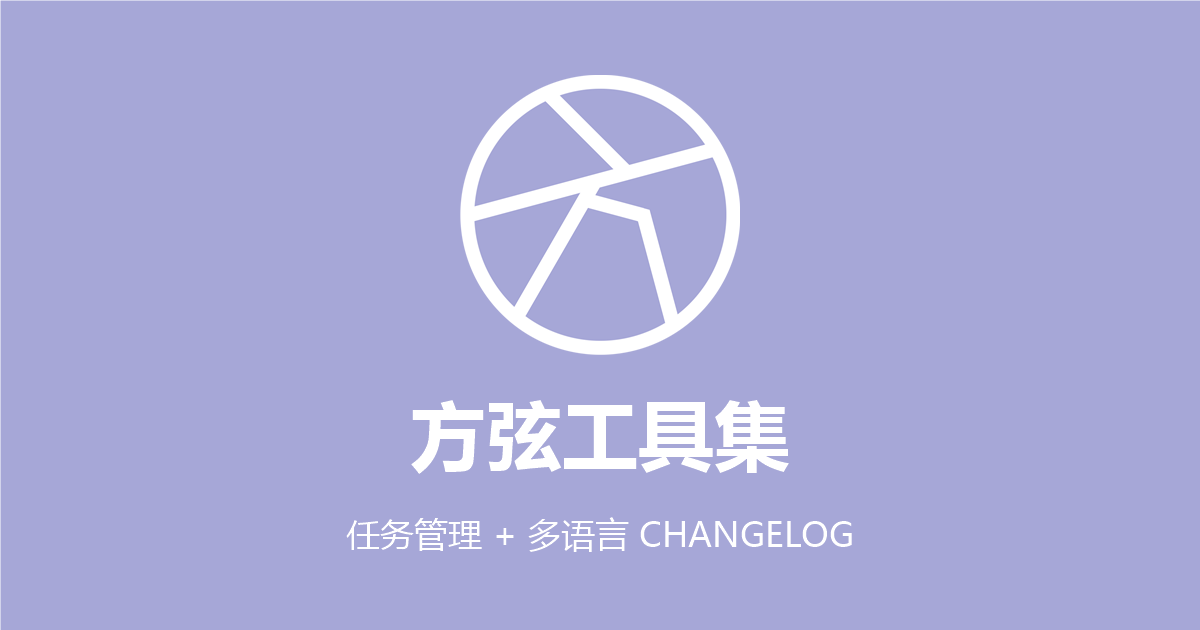
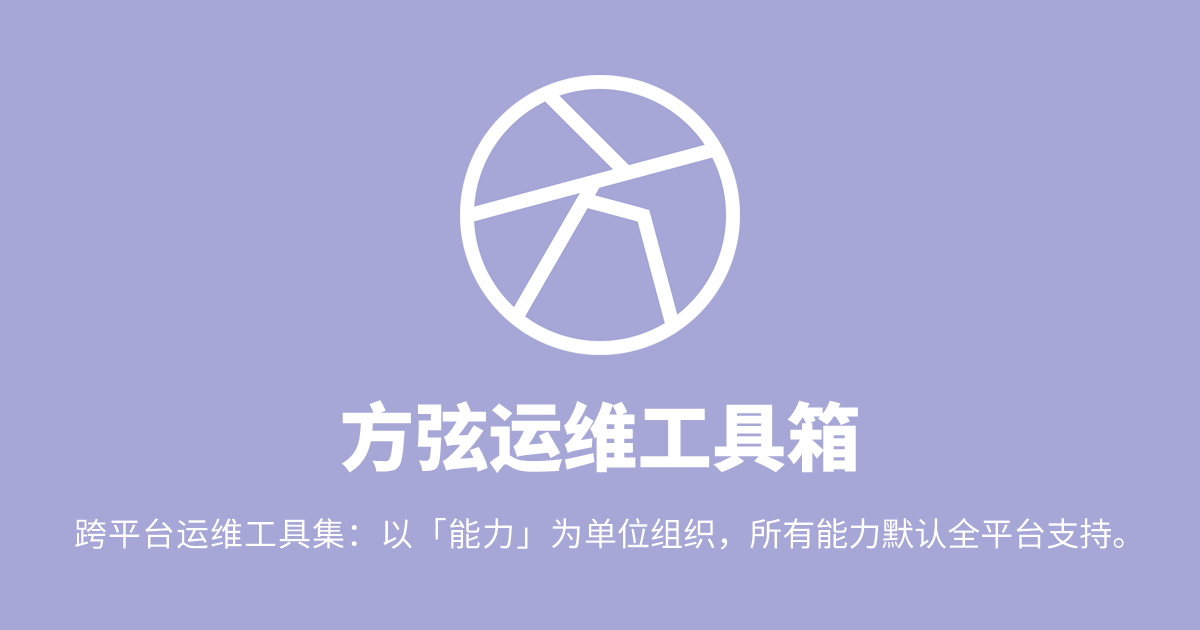
修复：修正文档站社交分享卡品牌串台
- docs/public/og-image.png 原沿用 @fxri/toolkit 品牌卡，替换为 opsbox 版
- 主标题「方弦运维工具箱」，副标题取 src/about.ts 完整 DESCRIPTION
- 重生成时修复文字发虚（贴回坐标取整 + 文字改 NearestNeighbor）
- docs/ 不入 npm 包，无对外行为变化，不建变更集

Changed region(s): [[0.2775, 0.6333, 0.74, 0.754], [0.0617, 0.8143, 0.925, 0.8746]]

diff --git a/.tasks/archive/202610/20261011.md b/.tasks/archive/202610/20261011.md
@@ -2,6 +2,53 @@
 
 > 本文件由 `toolkit tasks archive` 自动生成。
 
+## 20261011-唐启云-修正文档站社交卡素材
+
+> 负责人：唐启云　状态：已完成　范围：cli　完成时间：2026-10-11 06:24
+
+# 修正文档站社交分享卡素材
+
+延续 20261011-唐启云-补齐opsbox文档站与工程化骨架（见 archive/202610/20261011.md）：该任务为 opsbox 搭建文档站时，`docs/public/` 素材直接沿用同作者样本 `@fxri/toolkit` 的文件，未做产品化适配。
+
+## 背景
+
+用户报告 `docs/public/og-image.png` 不是本工具的图片。取证确认：
+
+- `docs/public/og-image.png` 与 `../toolkit/docs/public/og-image.png` SHA256 完全相同（`6056088D…`），内容为 toolkit 品牌卡——主标题「方弦工具集」、副标题「任务管理 + 多语言 CHANGELOG」。该文件被 `.vitepress/config.mts` 用作 `og:image`，导致 opsbox 文档站社交分享卡显示的是 toolkit 的产品身份。
+- `docs/public/logo.png` 与 toolkit 同文件（`50490BC7…`），但为「方弦」品牌家族共用徽记（无产品名，方弦工具集 / 方弦运维工具箱 / 方弦网同源），属品牌级而非产品级，经确认保留不动。
+- 全仓 grep `方弦工具集` / `toolkit` / `任务管理 + 多语言` 仅命中对**外部工具 `@fxri/toolkit` 的正常引用**（`AGENTS.md`、`.changeset/README.md`、任务档）与 `CHANGELOG.md` 通用词，文案层无品牌串泄漏；全仓图片素材仅上述两个，无同类残留。
+
+## 实施方案
+
+1. 用 PowerShell 内置 `System.Drawing`（不新增依赖）按 toolkit 既有规格重生成 `docs/public/og-image.png`：1200×630、底色品牌淡紫 `RGB(167,167,215)`、图标源取 `<本机>/…/方弦图标-圆形.png`（白环 + 淡紫填充、透明底，落到紫底上即呈现白线风格）、主标题「方弦运维工具箱」、副标题取 `src/about.ts` 的完整 `DESCRIPTION`（「跨平台运维工具集：以「能力」为单位组织，所有能力默认全平台支持。」）全白、上下边距对称、`MeasureString + GenericTypographic` 精确测字。
+2. 生成脚本为一次性中间件，落在仓库外；产物仅覆盖 `docs/public/og-image.png`。
+3. `logo.png` 保留不动。
+
+## 影响范围
+
+- 仅 `docs/public/og-image.png` 一个文件（文档站素材）。`docs/` 不入 npm 包（`package.json#files` 白名单不含 `docs`），使用者无感；README、文档正文、CLI 能力与对外契约均不受影响。
+- **无对外行为变化，不建变更集**；归档时 `toolkit tasks archive` 的「无待发布变更集」软告警按此豁免。
+
+## 验证方式
+
+- `pnpm verify`（单一门禁，含 `docs:build`）。
+- 目视核对新卡尺寸（1200×630）与文案（主标题「方弦运维工具箱」、副标题为 `src/about.ts` 完整 `DESCRIPTION`）。
+
+## 回滚方案
+
+`git checkout -- docs/public/og-image.png`。
+
+## 完成情况
+
+- 改动文件：仅 `docs/public/og-image.png`（文档站社交分享卡素材），由 toolkit 品牌卡替换为 opsbox 版；无 `src/` 代码改动。
+- 新卡规格：1200×630、底色品牌淡紫 `RGB(167,167,215)`、主标题「方弦运维工具箱」、副标题取 `src/about.ts` 完整 `DESCRIPTION`（「跨平台运维工具集：以「能力」为单位组织，所有能力默认全平台支持。」）全白；图标取 `<本机>/…/方弦图标-圆形.png`。逐像素扫描实测——图标 `y75..354(h280) x460..739`、标题 ink `y400..472(h73) x342..857`（字号 74.46px）、副标题 ink `y518..549(h32) x75..1123`（字号 33.5px），三元素均水平居中（cx≈599.5），左右留白约 75px。
+- 生成方式：PowerShell 内置 `System.Drawing`（未新增依赖），一次性脚本落仓库外（已清理）。
+- ⚠ 修订留痕：初版副标题用短版「跨平台运维工具集」；用户要求放完整副标题后按 `DESCRIPTION` 全文重生成。重生成时发现文字发虚，根因为文字位图以浮点坐标贴回（cx≈599.5 产生 0.5px 分数偏移）在 `HighQualityBicubic` 下触发重采样，遂将贴回坐标取整并让文字采用 `NearestNeighbor`（图标仍 `HighQualityBicubic`），重生成后边缘锐利、无晕。本块已完成时间与几何数值按最终产物回补。
+- 未建变更集：`docs/` 不入 npm 包（`package.json#files` 白名单不含 `docs`），不影响对外行为，按质量门第 4 条豁免。
+- 验证命令：`pnpm verify`（含 `docs:build`）；目视核对新卡尺寸与文案。
+
+---
+
 ## 20261011-唐启云-修正用户文档安装形态口径
 
 > 负责人：唐启云　状态：已完成　范围：cli　完成时间：2026-10-11 05:58
